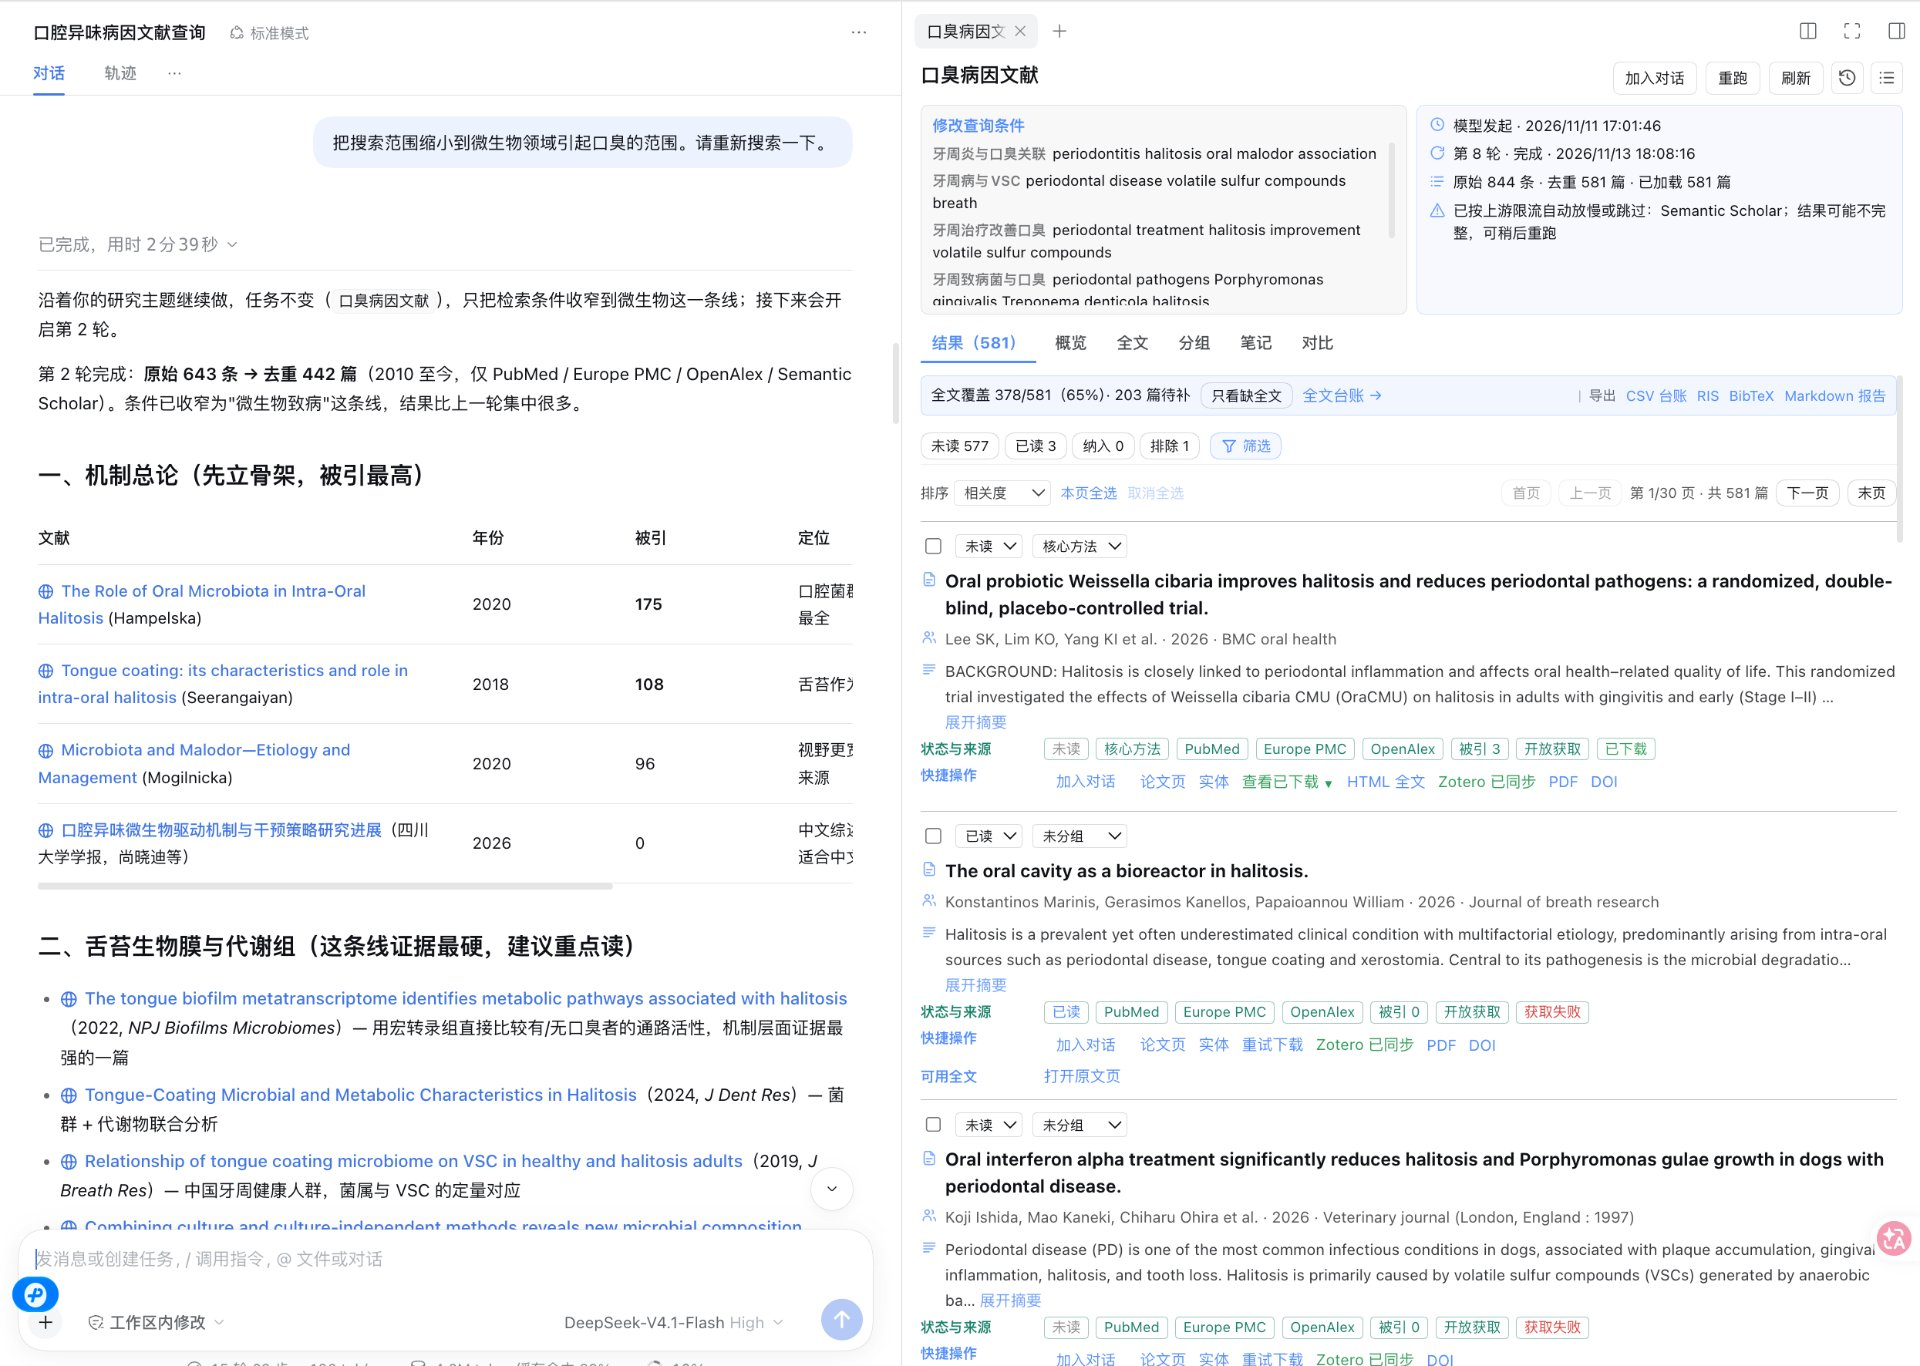
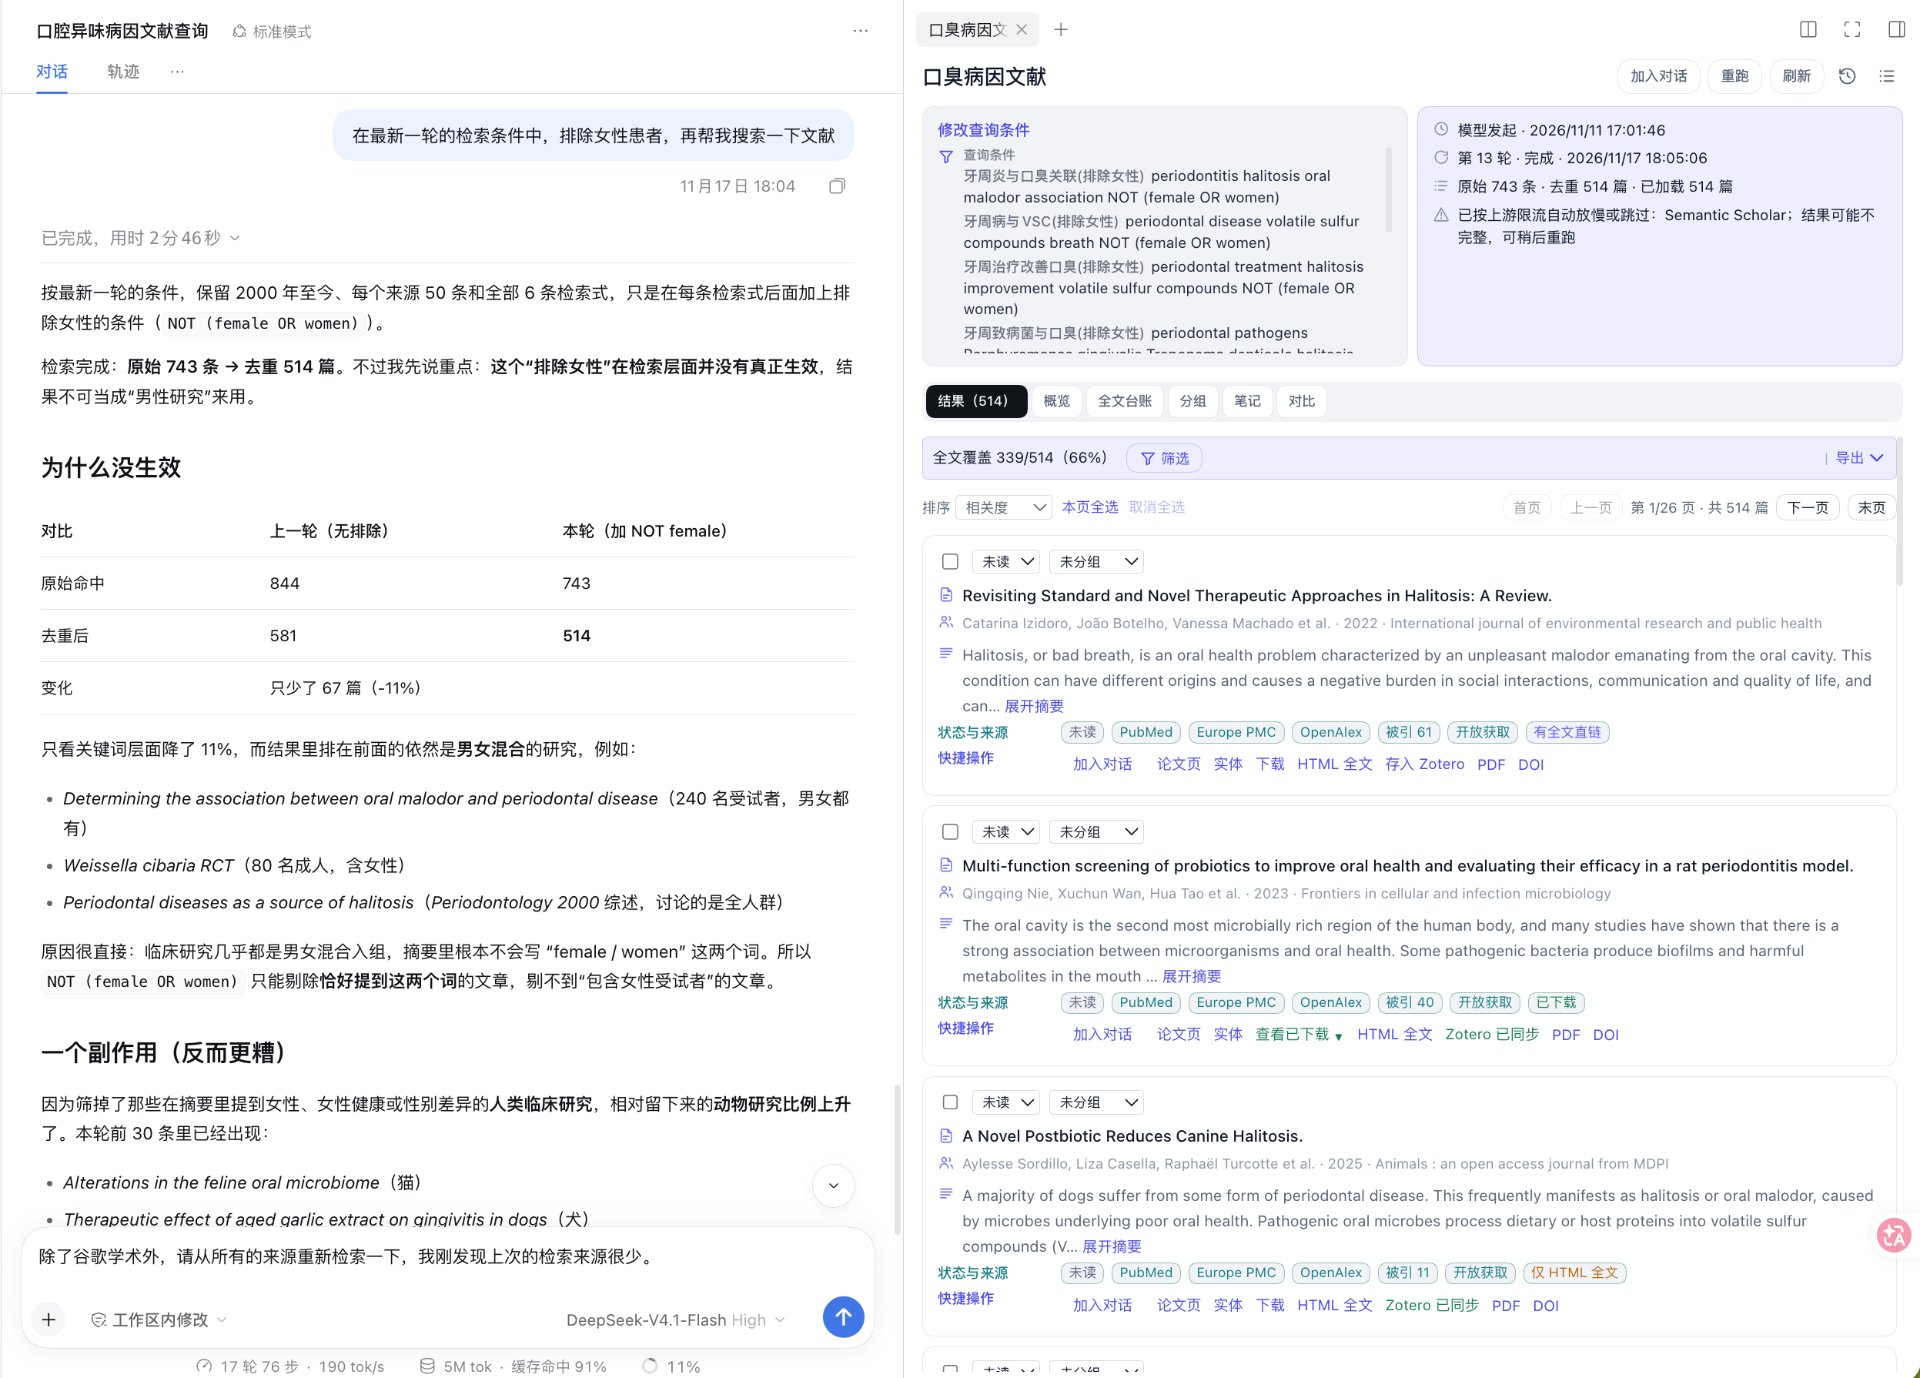
更新介绍图片

diff --git a/README.md b/README.md
@@ -2,9 +2,9 @@
 
 DeepSeek Harness 文献检索插件：模型主导检索，界面可视化呈现检索过程与结果。
 
-![插件界面：左侧模型对话发起检索并给出综述，右侧栏同步展示文献列表、全文状态与逐篇操作](assets/overview.jpg)
+![插件界面：左侧模型在对话里追加检索条件并分析本轮效果，右侧栏同步展示检索条件、轮次记录、全文覆盖筛选与逐篇操作](assets/overview.jpg)
 
-*左：模型在对话里完成检索、给出改进建议；右：右侧栏同步列出命中文献、全文状态，以及「加入对话 / 下载 / 存 Zotero」等逐篇操作。*
+*左：模型接着上一轮改条件重搜，并对比两轮命中、说明「排除女性」为什么没生效；右：右侧栏同步显示当前条件、轮次与归档数、全文覆盖比例（339/514）和逐篇的「加入对话 / 论文页 / 下载 / 存 Zotero」操作。*
 
 **让 AI 的对话和右侧栏面板一起查文献 —— 说一句话，界面就动；点一下，AI 就接上。**
 
